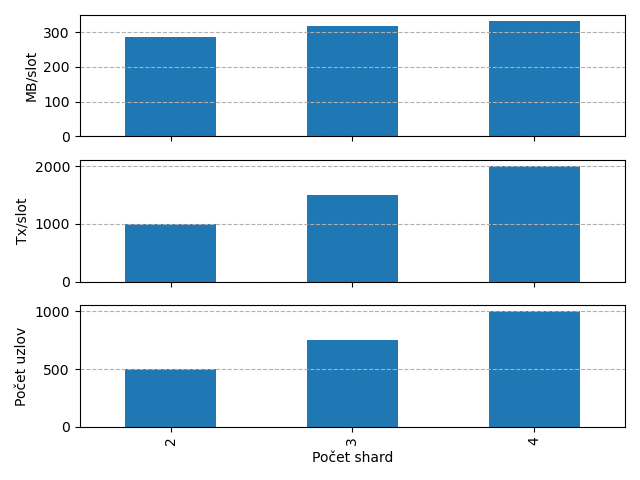
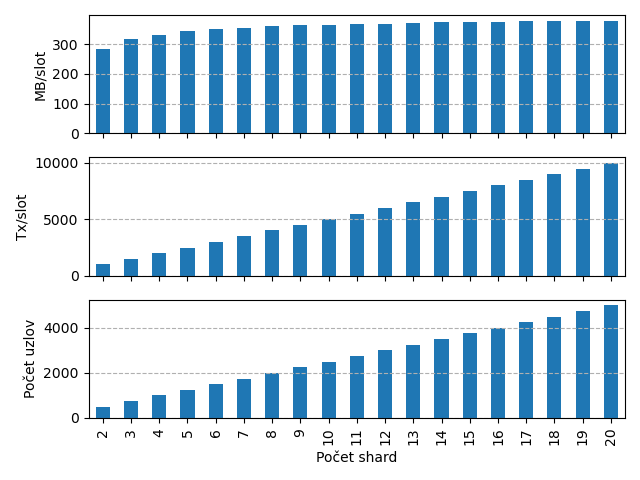
Resimulate 3 scenario (takes at least an hour).

Changed region(s): [[0.0312, 0.0312, 0.9688, 0.5938], [0.0, 0.625, 0.9688, 0.9688], [0.0, 0.4062, 0.1562, 0.5]]

diff --git a/simulator-client/scenarios/harmony/scenario03.py b/simulator-client/scenarios/harmony/scenario03.py
@@ -31,7 +31,7 @@ class Scenario03(Scenario):
         slots = 300
         token_lambda = 600
         num_of_epochs = 3
-        for shards in range(2, 5):
+        for shards in range(2, 21):
             nodes = 250 * shards
             parameters = {
                 "epochDurationInSlots": slots,
